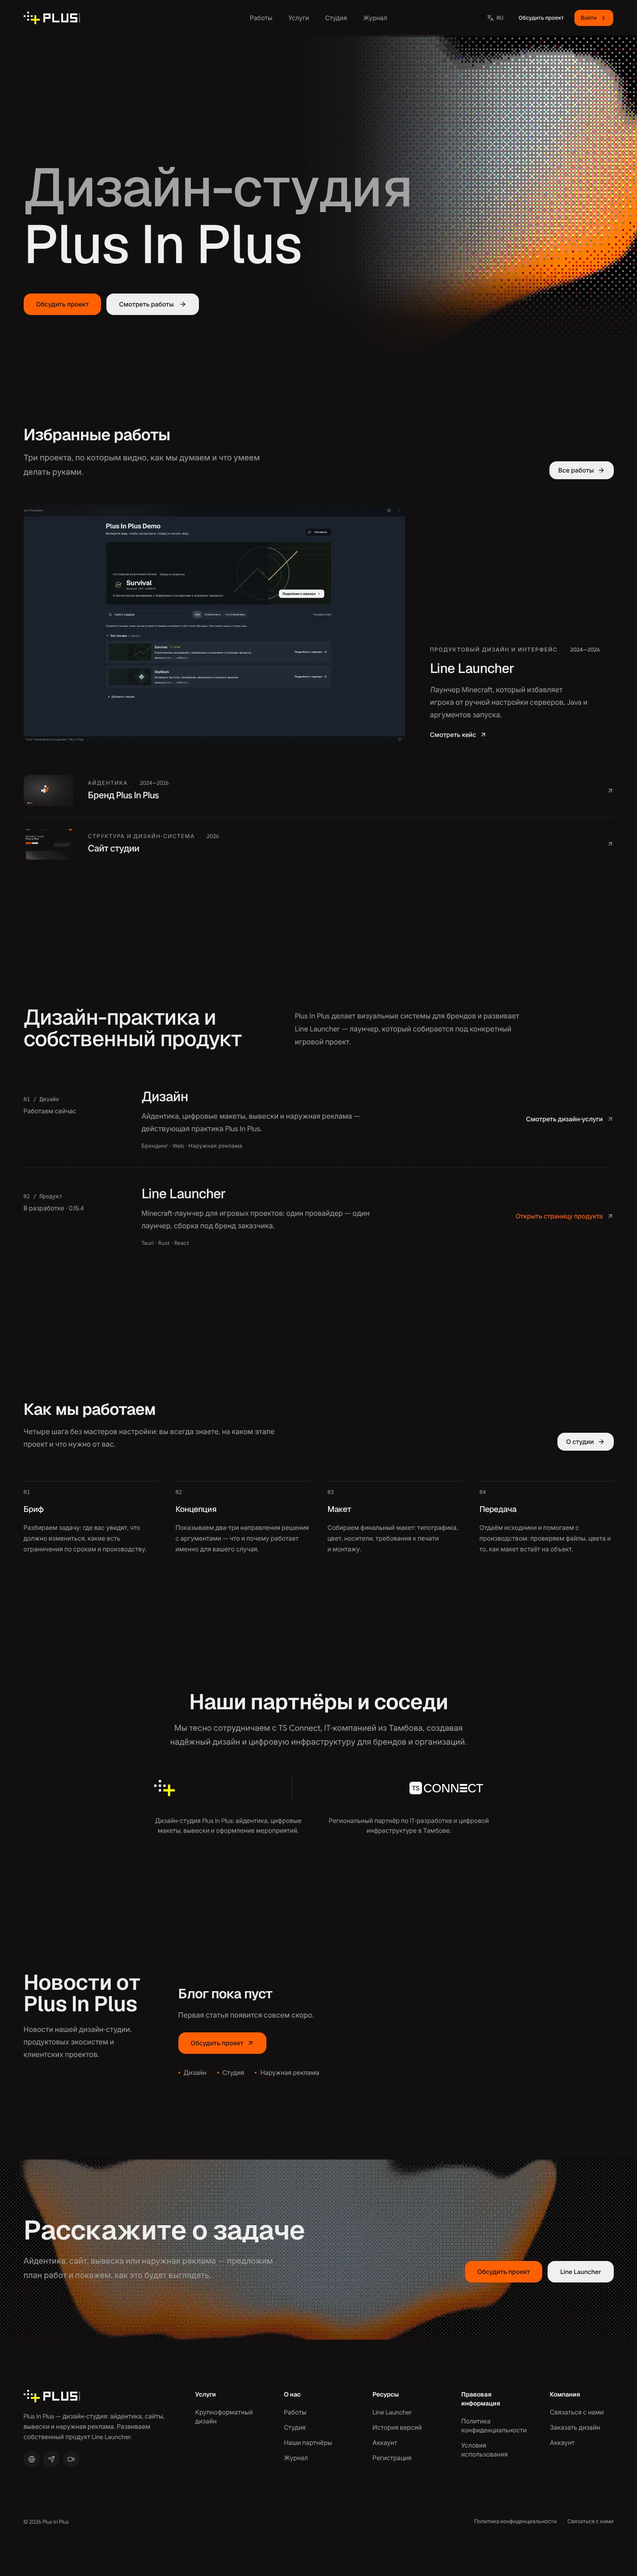
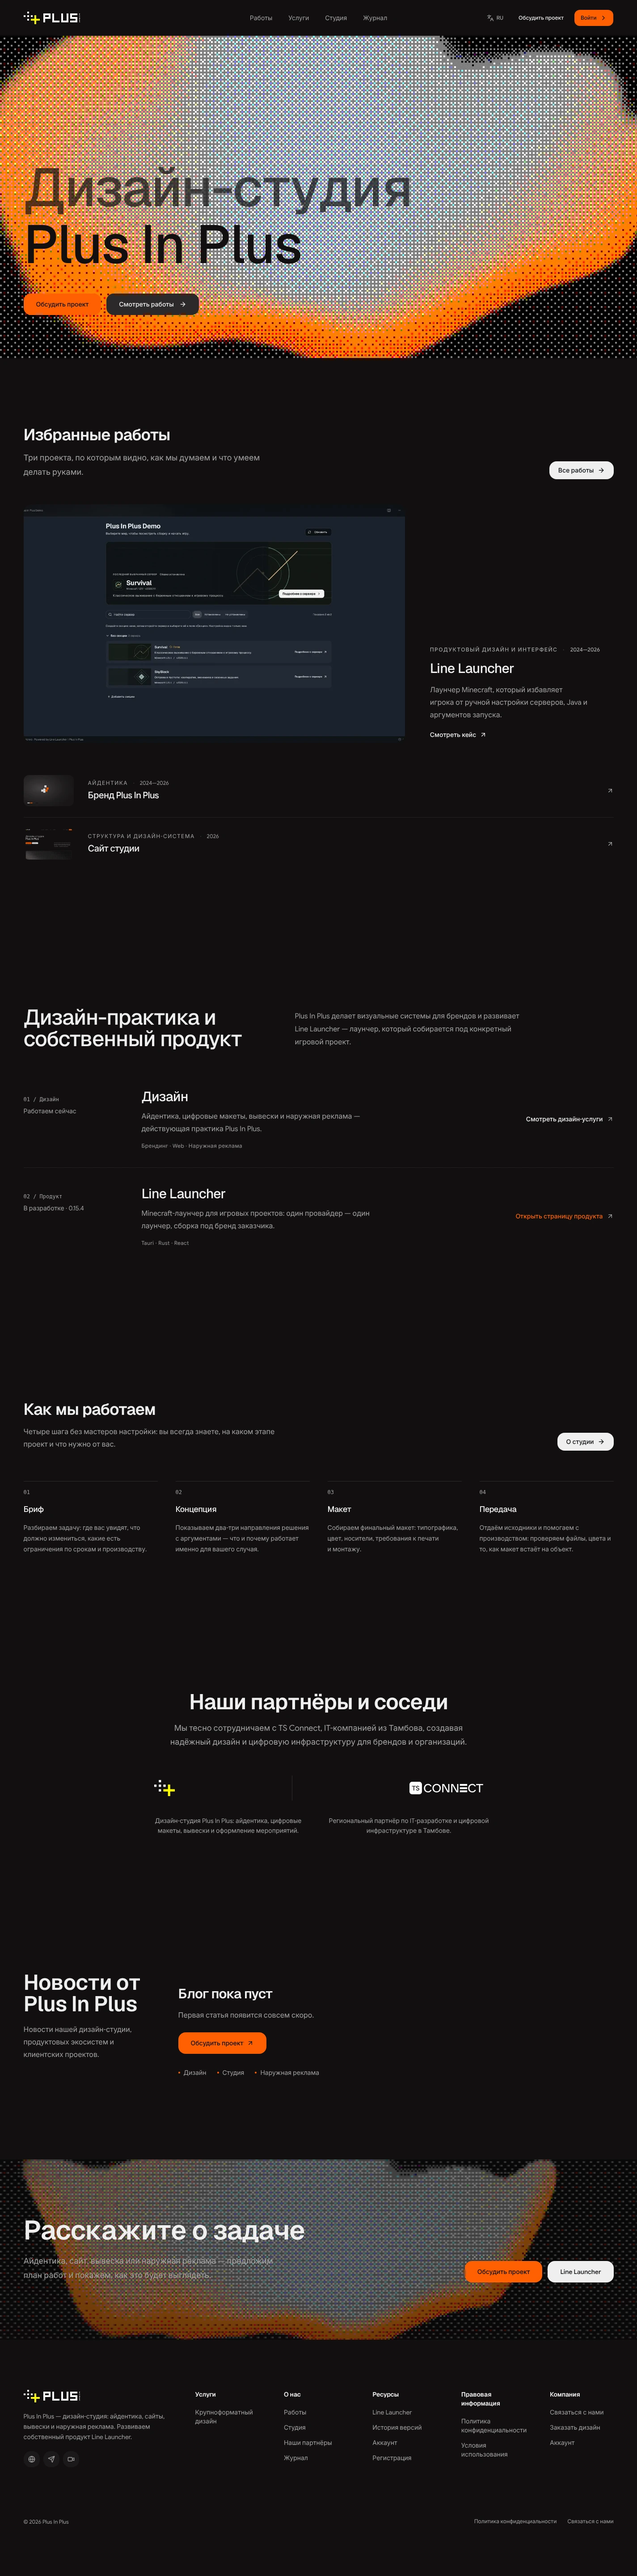
Hero: тёмная типографика на светлом градиенте владельца
- Заголовок и приглушённая строка — #110F10 (вторая в 70 %): фон владельца
  светлый, белый текст на нём не читается. Фон не тронут.
- Вторичная кнопка на светлом свете — тёмная плашка #2B292A со светлым текстом;
  белая кнопка сливалась.
- Skill §2.2.3: правило инверсии типографики для светлых авторских градиентов.
- Скриншоты пересняты (25 кадров).

Changed region(s): [[0.0, 0.0, 0.9263, 0.1555], [0.0, 0.8395, 1.0, 0.9017]]

diff --git a/components/blocks/hero138.tsx b/components/blocks/hero138.tsx
@@ -63,13 +63,13 @@ const Hero138 = ({
             text={headingMuted}
             trigger="mount"
             seed={3}
-            className="block text-foreground/70"
+            className="block text-[#110f10]/70"
           />
           <DecryptText
             text={headingPrimary}
             trigger="mount"
             seed={5}
-            className="mt-2 block text-foreground md:mt-4"
+            className="mt-2 block text-[#110f10] md:mt-4"
           />
         </h1>
 
@@ -84,7 +84,12 @@ const Hero138 = ({
             </Button>
           )}
           {secondaryCta && (
-            <Button variant="neutral" size="lg" asChild>
+            <Button
+              variant="neutral"
+              size="lg"
+              asChild
+              className="bg-[#2b292a] text-[#eeeeee] hover:bg-[#3a3838]"
+            >
               <Link href={secondaryCta.href} className="group">
                 {secondaryCta.label}
                 <ArrowRight className="ml-1 size-4 transition-transform duration-200 ease-out group-hover:translate-x-1" />
